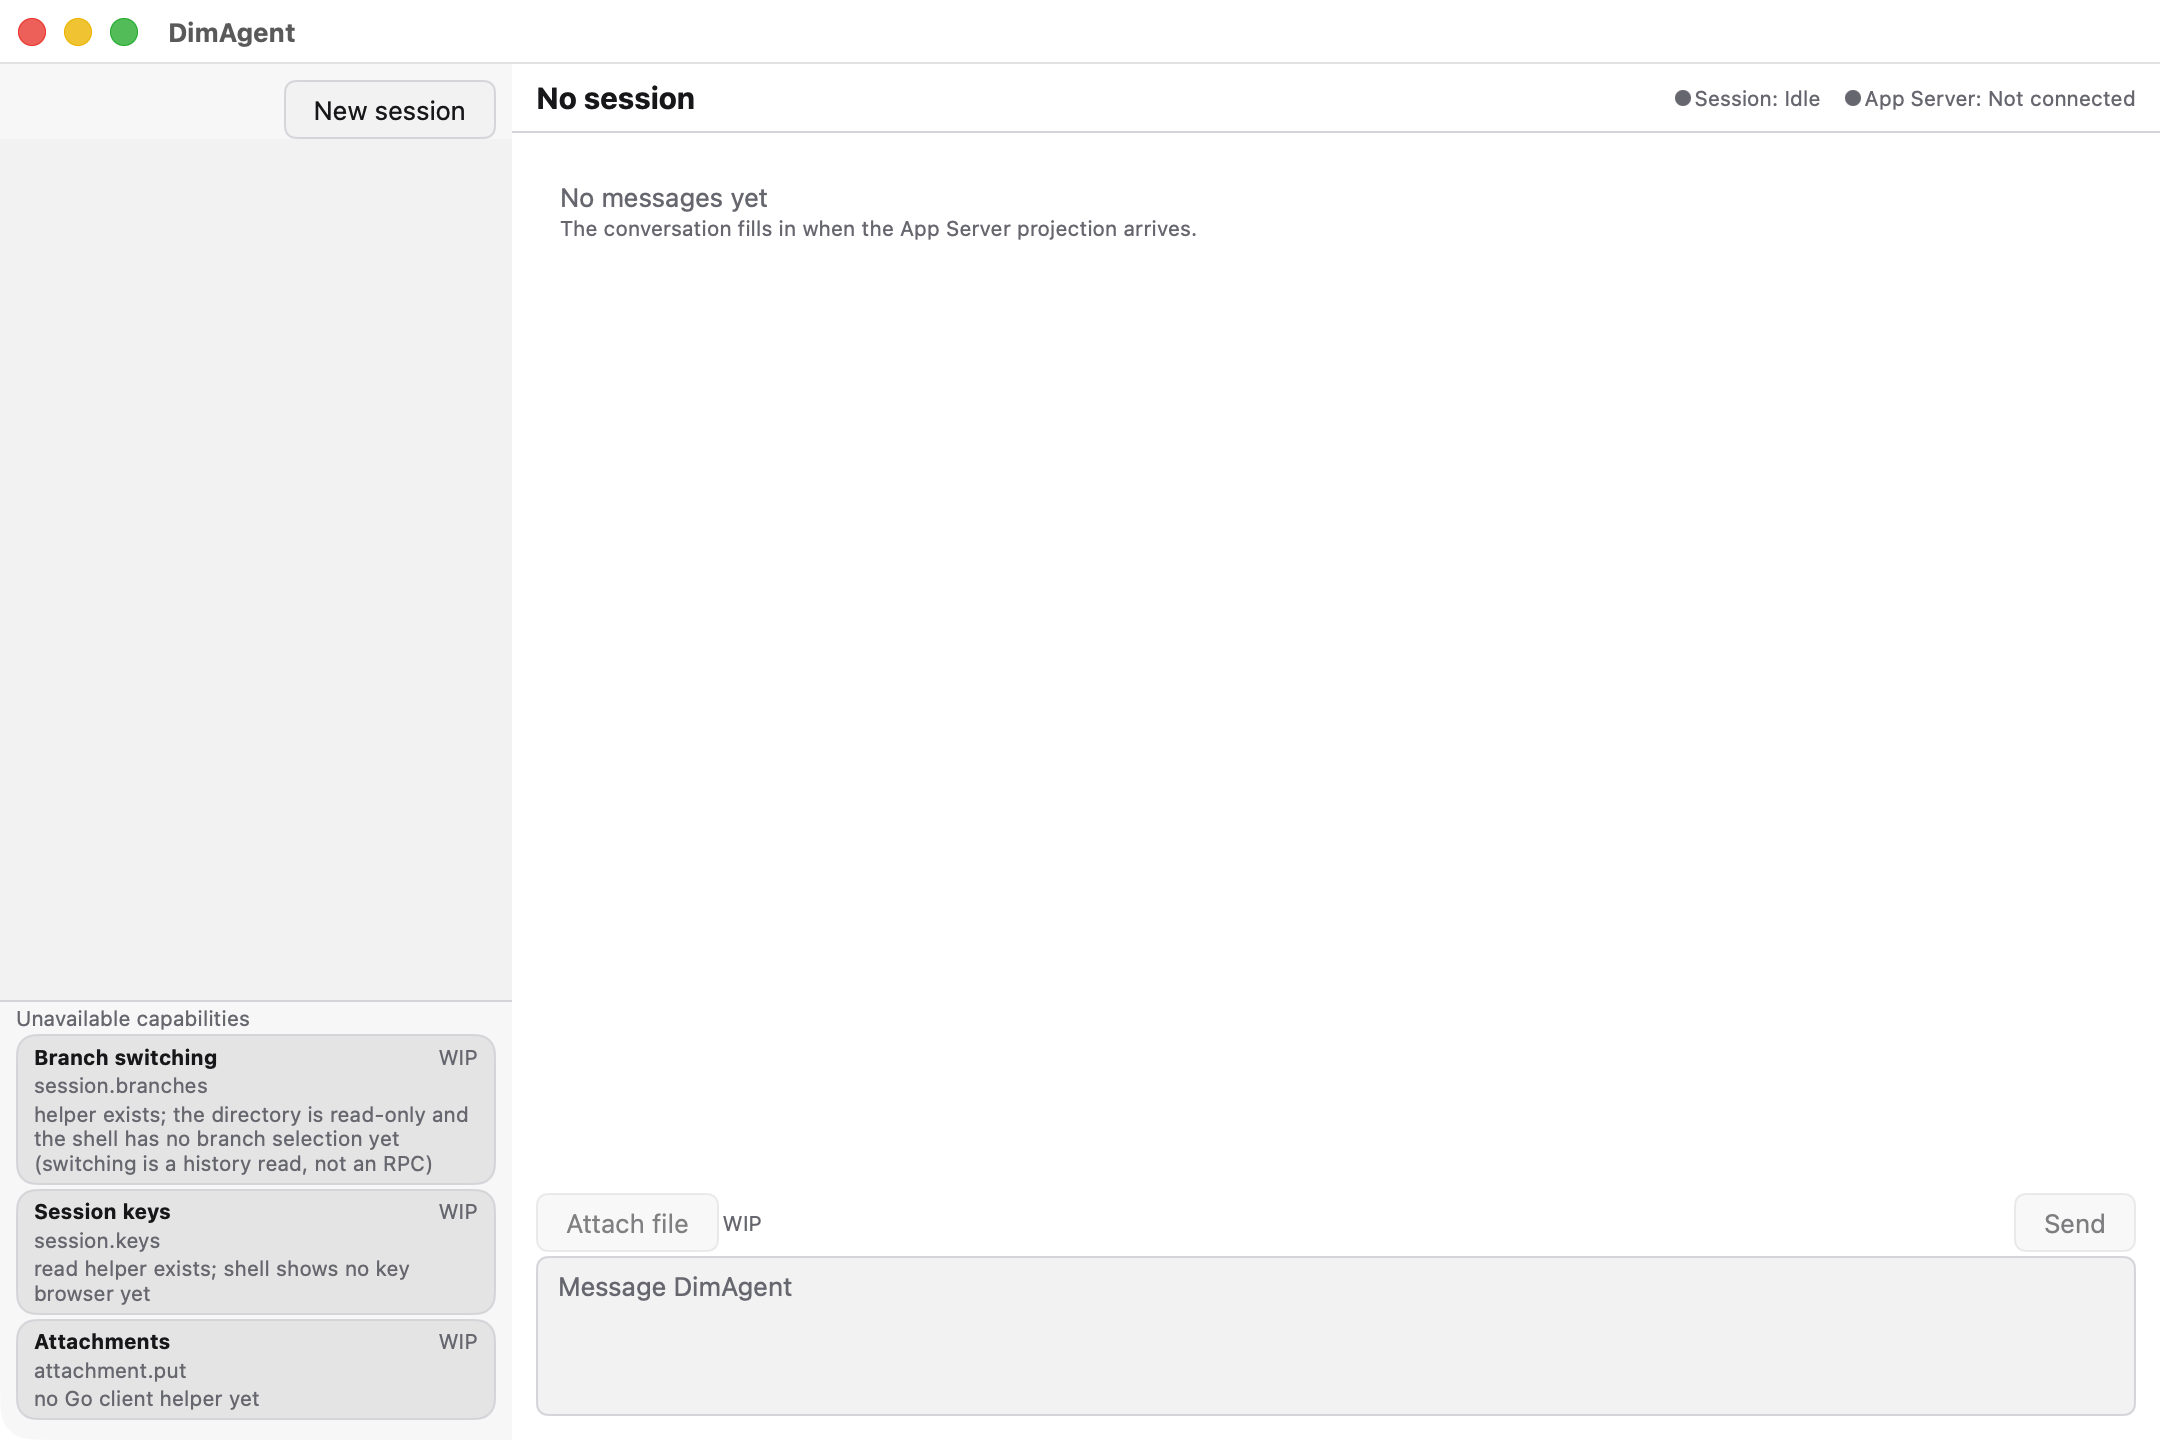
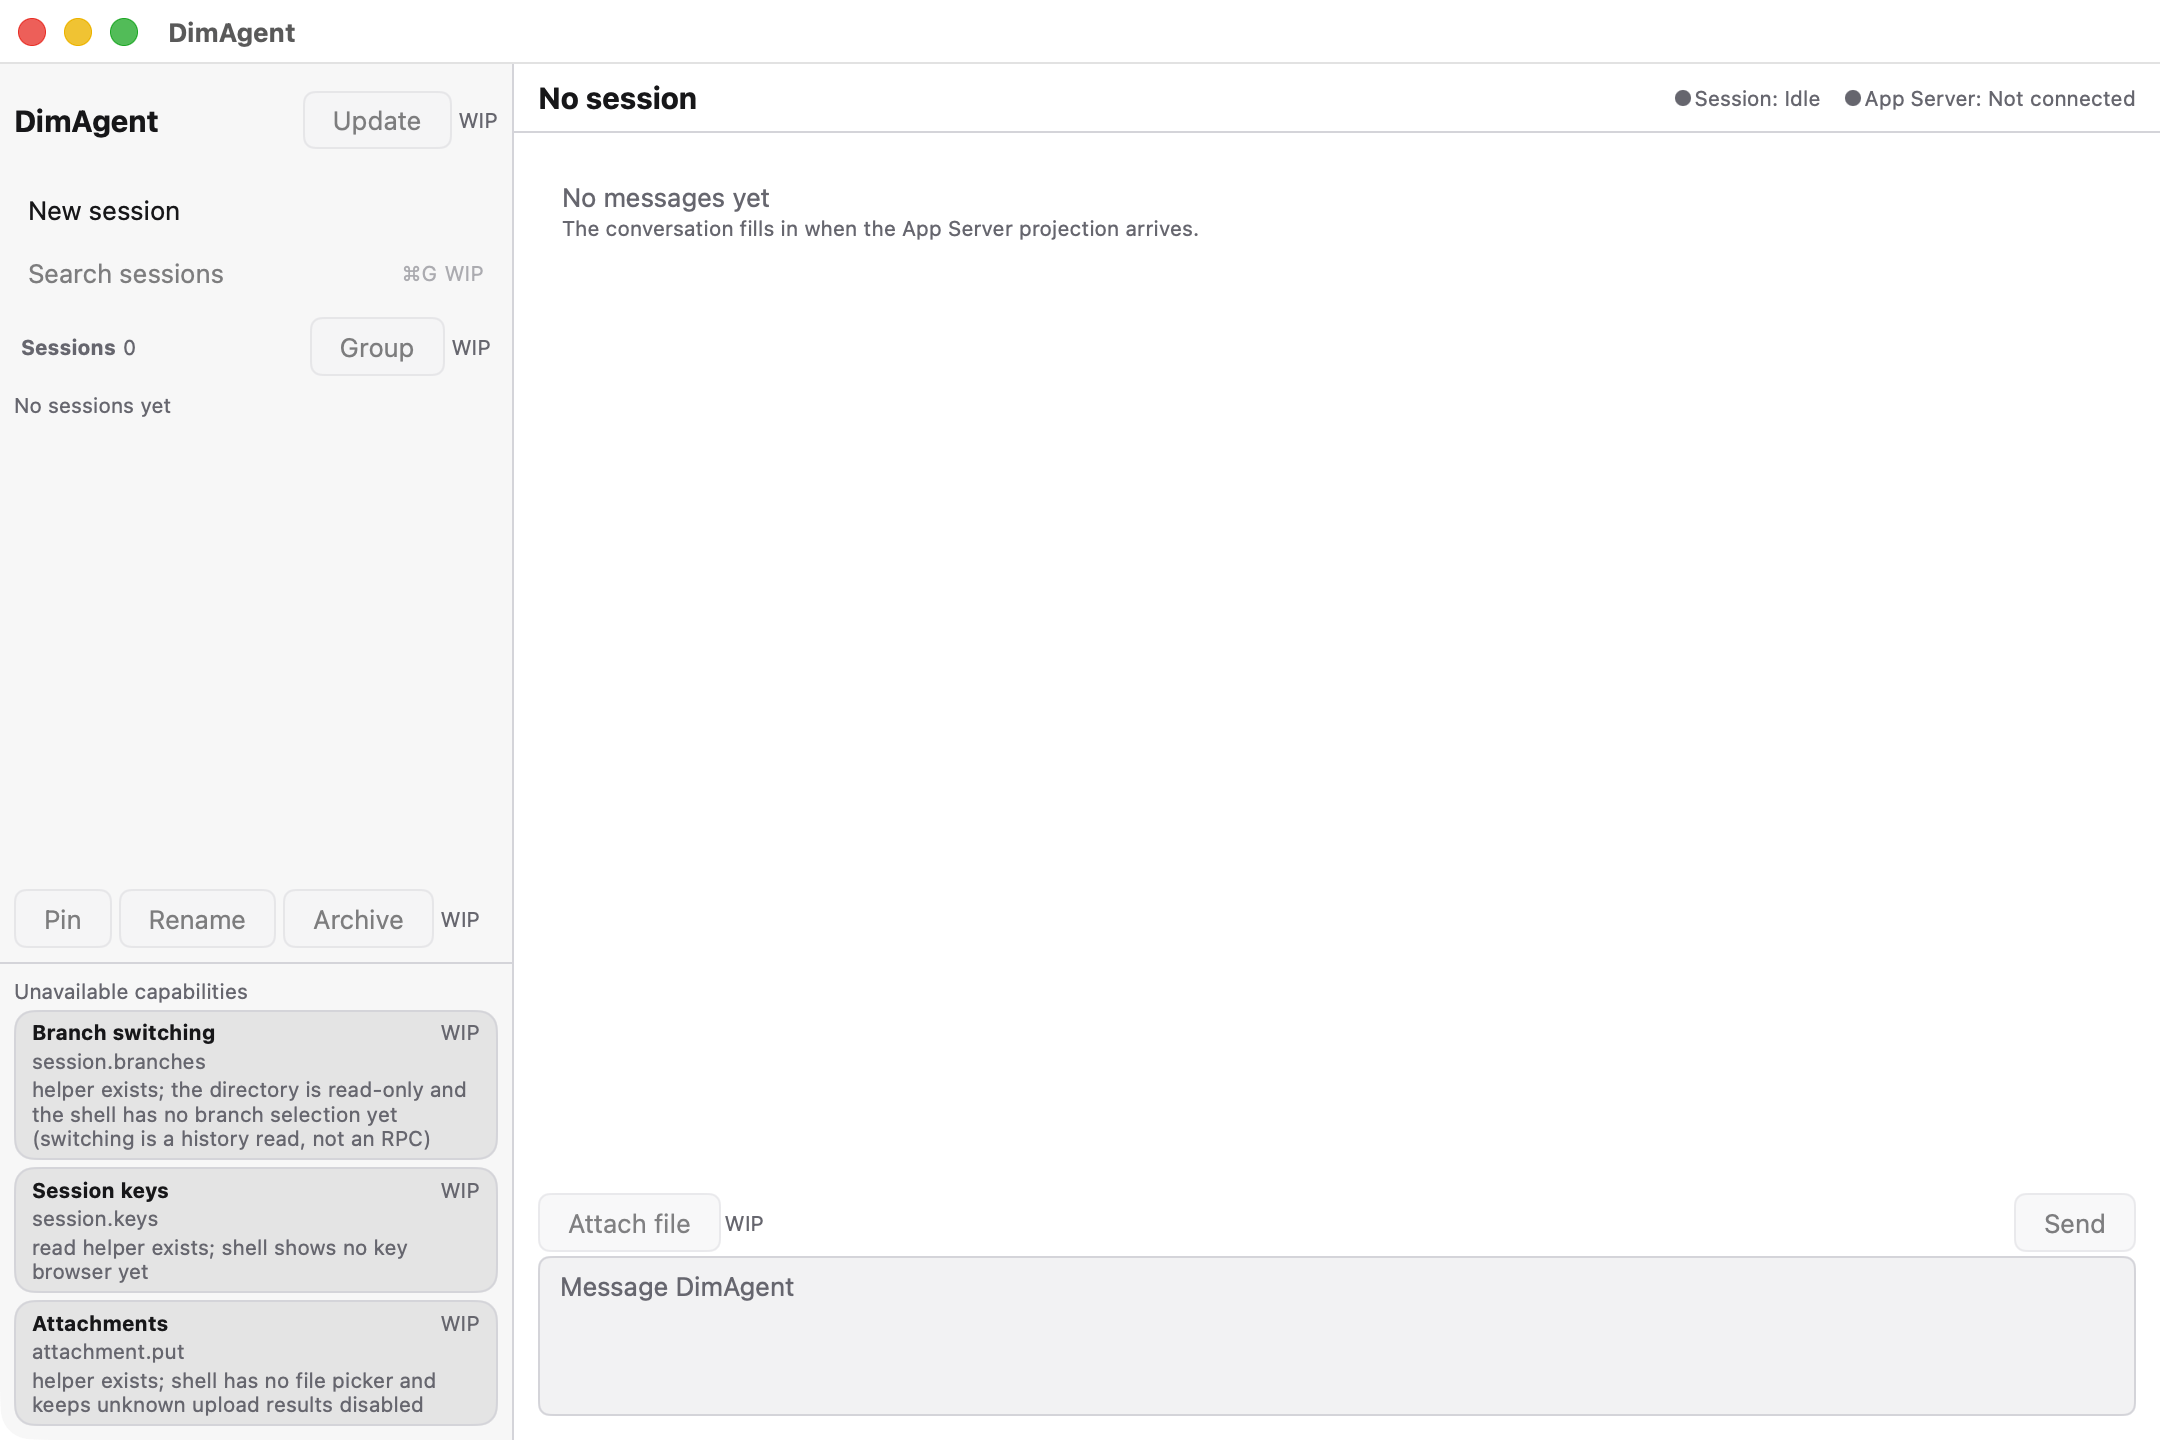
docs: refresh window evidence on the new sidebar

diff --git a/docs/window-evidence.md b/docs/window-evidence.md
@@ -12,14 +12,14 @@
 |---|---|
 | 机器 | macOS 26.6.2（darwin/arm64） |
 | Go | go1.27.3 darwin/arm64 |
-| 源码 | `HEAD = 3fd370b6dd0aac6cfec54b706fe16023427cbfee`，**工作区不干净**（见下） |
-| 构建时间 | 2026-11-09 12:10:50 CST |
+| 源码 | `HEAD = 2701701baf454dd3e823ddbfbc69983d56d4d5e5`，工作区 clean（2026-11-09 12:31 重跑） |
+| 构建时间 | 2026-11-09 12:31:10 CST |
 | App Server 二进制 | `/tmp/dim-2-target/debug/dim-app-server`（Mach-O arm64，401 302 448 B，mtime 2026-11-08 23:38） |
 | 窗口库 | `github.com/egoist/mygo v0.8.3`（`mygo.NewWindow`，`Width: 1080`、`Height: 720`） |
 | 截图工具 | `/usr/sbin/screencapture -x -o -l <windowid>`（按窗口 ID 截取，只含该窗口，不含桌面和其它应用） |
 | 窗口 ID 来源 | `CGWindowListCopyWindowInfo`，按**本进程 PID** 过滤；脚本内用 `swiftc` 现场编译小工具读取 |
 
-采集时 `git status --short` 里已有其他人的未提交改动：`internal/ui/capability.go`、`internal/session/session.go`、`internal/integration/integration.go`、`internal/appserver/*`、`docs/protocol-contract.md`，另有未跟踪的 `internal/appserver/attachment.go`、`branch_test.go` 等。**窗口文字由这些未提交源码决定**，源码再变时截图即过期，需要重跑脚本。每个状态的完整快照记在同名 `.txt` 元数据的 `git_head` / `git_dirty` 字段里。
+2026-11-09 12:31 的这次采集在 `2701701`（P0 侧栏落地）上重跑，工作区 clean；`docs/evidence/window-*.txt` 的 `git_head` / `git_dirty` 记录同一事实。源码再变时截图即过期，需要重跑脚本。
 
 ## 2. 复现命令
 
@@ -37,14 +37,14 @@ cd /Users/eric8810/Code/dimagent-mygo
 4. 两种状态都在窗口拿到真实尺寸后 `sleep 1` 再截图；截图后按 PID 结束应用，并按「命令行里含本次临时 home 路径」精确结束本次 spawn 的 daemon；随后 `rm -rf` 临时 home。
 5. 全程不读写 `~/.dimcode`，不使用用户的真实 product home。结束时打印 `all requested captures done; no leftover daemon from this run`，并复查没有本次残留的 daemon。
 
-## 3. 采集结果（2026-11-09 12:10 CST）
+## 3. 采集结果（2026-11-09 12:31 CST）
 
 | 状态 | 采集时间 | 窗口 ID | 窗口位置/尺寸（points） | PNG 像素 | 字节 | PNG 路径 |
 |---|---|---|---|---|---|---|
-| 未连接 | 12:10:50 → 12:10:51 | 47309 | `486,118,1076,716` | 2160×1440（= 1080×720 @2x） | 195 357 | [`evidence/window-disconnected.png`](evidence/window-disconnected.png) |
-| 已连接 | 12:10:52 → 12:10:54 | 47318 | `484,116,1080,720` | 2160×1440（= 1080×720 @2x） | 195 551 | [`evidence/window-connected.png`](evidence/window-connected.png) |
+| 未连接 | 12:31:11 → 12:31:13 | 47447 | `484,116,1080,720` | 2160×1440（= 1080×720 @2x） | 239 087 | [`evidence/window-disconnected.png`](evidence/window-disconnected.png) |
+| 已连接 | 12:31:13 → 12:31:15 | 47456 | `484,116,1080,720` | 2160×1440（= 1080×720 @2x） | 239 332 | [`evidence/window-connected.png`](evidence/window-connected.png) |
 
-MD5：未连接 `afe8e1f72f381a4e3c643c7f7def6341`，已连接 `2f789c447cf38d1acc3901ddc94daca8`。
+MD5：未连接 `d57959974c9da1bb30846f12a00f9b90`，已连接 `4ed688539410f15ffda29df0fe799400`。
 
 机器可读的采集元数据（脚本生成，含源码快照、PID、窗口 ID、bounds、daemon 命令行）：
 [`evidence/window-disconnected.txt`](evidence/window-disconnected.txt)、[`evidence/window-connected.txt`](evidence/window-connected.txt)。
@@ -52,17 +52,17 @@ MD5：未连接 `afe8e1f72f381a4e3c643c7f7def6341`，已连接 `2f789c447cf38d1a
 已连接态截图时真实在跑的 daemon（取自元数据）：
 
 ```
-30243 /tmp/dim-2-target/debug/dim-app-server
-      --unix <tmp>/dimagent-product-home.SZRCzg/rust/daemon.sock --no-ws
-      --home <tmp>/dimagent-product-home.SZRCzg/rust
-      --product-home <tmp>/dimagent-product-home.SZRCzg
+38616 /tmp/dim-2-target/debug/dim-app-server
+      --unix <tmp>/dimagent-product-home.ZW26LQ/rust/daemon.sock --no-ws
+      --home <tmp>/dimagent-product-home.ZW26LQ/rust
+      --product-home <tmp>/dimagent-product-home.ZW26LQ
 ```
 
 截图结束后该进程随应用退出而消失，`ps aux | grep '[d]im-app-server'` 无输出；临时 home 已删除。
 
 ## 4. 截图上实际看到的内容
 
-两张图版式一致：左侧边栏顶部 `New session`，右侧标题 `No session`，右上状态行 `● Session: Idle  ● App Server: <状态>`；中间 `No messages yet` / `The conversation fills in when the App Server projection arrives.`；底部 composer（`Message DimAgent` + `Send`，左侧 `Attach file` 带 `WIP` 标记）；左下 `Unavailable capabilities` 三条 WIP 卡片。
+两张图版式一致（`2701701` 的 P0 侧栏）：左侧栏顶部 `DimAgent` + `Update`（WIP），下面是 `New session`、`Search sessions`（⌘G，WIP）、`Sessions 0` + `Group`（WIP）、`No sessions yet`，再往下是 `Pin` / `Rename` / `Archive`（均 WIP）；右侧标题 `No session`，右上状态行 `● Session: Idle  ● App Server: <状态>`；中间 `No messages yet` / `The conversation fills in when the App Server projection arrives.`；底部 composer（`Message DimAgent` + `Send`，左侧 `Attach file` 带 `WIP` 标记）；左下 `Unavailable capabilities` 三张 WIP 卡片。
 
 | 差异点 | 未连接（`window-disconnected.png`） | 已连接（`window-connected.png`） |
 |---|---|---|
@@ -76,7 +76,7 @@ WIP 卡片当时渲染出的文案（真实窗口内容，逐字抄录）：
 
 - `Branch switching` — `session.branches` — `helper exists; the directory is read-only and the shell has no branch selection yet (switching is a history read, not an RPC)`
 - `Session keys` — `session.keys` — `read helper exists; shell shows no key browser yet`
-- `Attachments` — `attachment.put` — `no Go client helper yet`
+- `Attachments` — `attachment.put` — `helper exists; shell has no file picker and keeps unknown upload results disabled`
 
 ## 5. L4 判定
 

diff --git a/docs/development-plan.md b/docs/development-plan.md
@@ -38,10 +38,10 @@ Last updated: 2026-11-09
 
 **Wave 3：UI 1:1 对齐（进行中）** —— 顺序不能换：
 
-1. token 语义层与量纲层（`internal/ui/tokens.go`）：elevation、前景配对、sidebar/tooltip 语义集、侧栏 256/200–360、四级圆角、字号档位。
-2. 布局提取（`docs/ui-layout-spec.md`）：每个 P0 区域的容器树、flex 方向、宽高/min/max/padding/gap、滚动与虚拟化、Tailwind/变量出处（file:line）、MyGo API 映射与缺口。组件实现必须以这份规格为验收基线。
-3. P0 组件：侧栏（分组/搜索/置顶）→ timeline 行模型（thinking/工具卡展开/文件改动）→ composer（自适应/附件 chip/模式选择）。
-4. 截图证据闭环：用 mygo `Tester.Image()` 输出 light/dark PNG，先做同仓库稳定性回归，再做跨端人工对照。
+1. ✅ token 语义层与量纲层（`2701701` 之前的 `2c888e1`）：elevation、前景配对、sidebar/tooltip 语义集、侧栏 256/200–360、四级圆角、字号档位。
+2. ✅ 布局提取（`docs/ui-layout-spec.md`，596 行）：容器树、flex 方向、宽高/min/max/padding/gap、滚动与虚拟化、Tailwind/变量出处（file:line）、MyGo API 映射与缺口。组件实现以这份规格为验收基线。
+3. 🚧 P0 组件：✅ 侧栏（`2701701`：分组、搜索 WIP、Pin/Rename/Archive WIP、200–360 拖拽）→ ⏭ timeline 行模型（thinking/工具卡展开/文件改动）→ composer（自适应/附件 chip/模式选择）。
+4. ✅ 截图证据闭环（`8b05e98` + 每次 UI 改动重出）：`Tester.Image()` light/dark PNG；真实窗口证据见 [window-evidence.md](window-evidence.md)。跨端人工对照仍未做。
 
 差距清单见 [ui-parity.md](ui-parity.md)；布局规格见 [ui-layout-spec.md](ui-layout-spec.md)。
 
